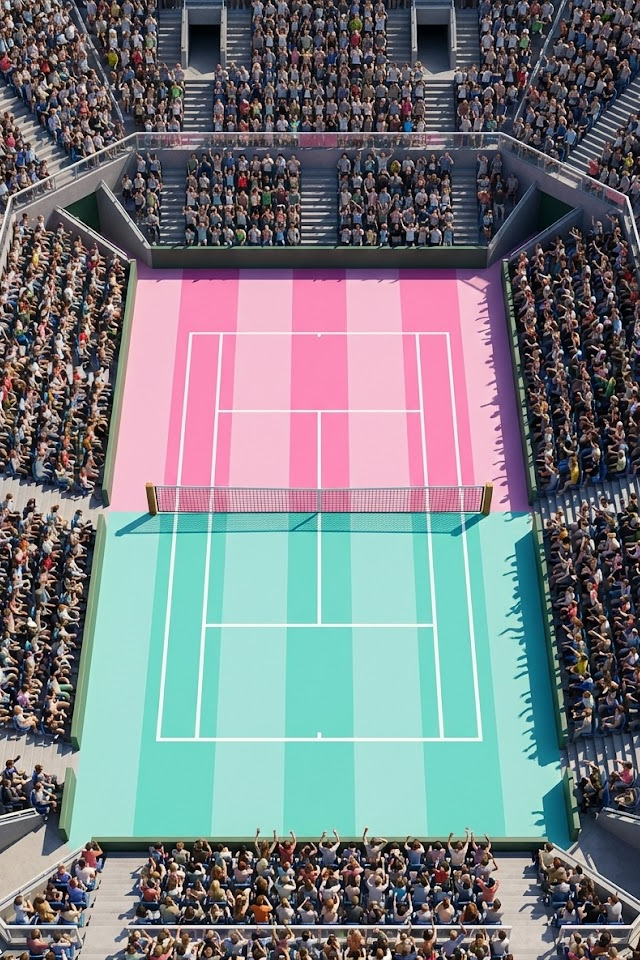
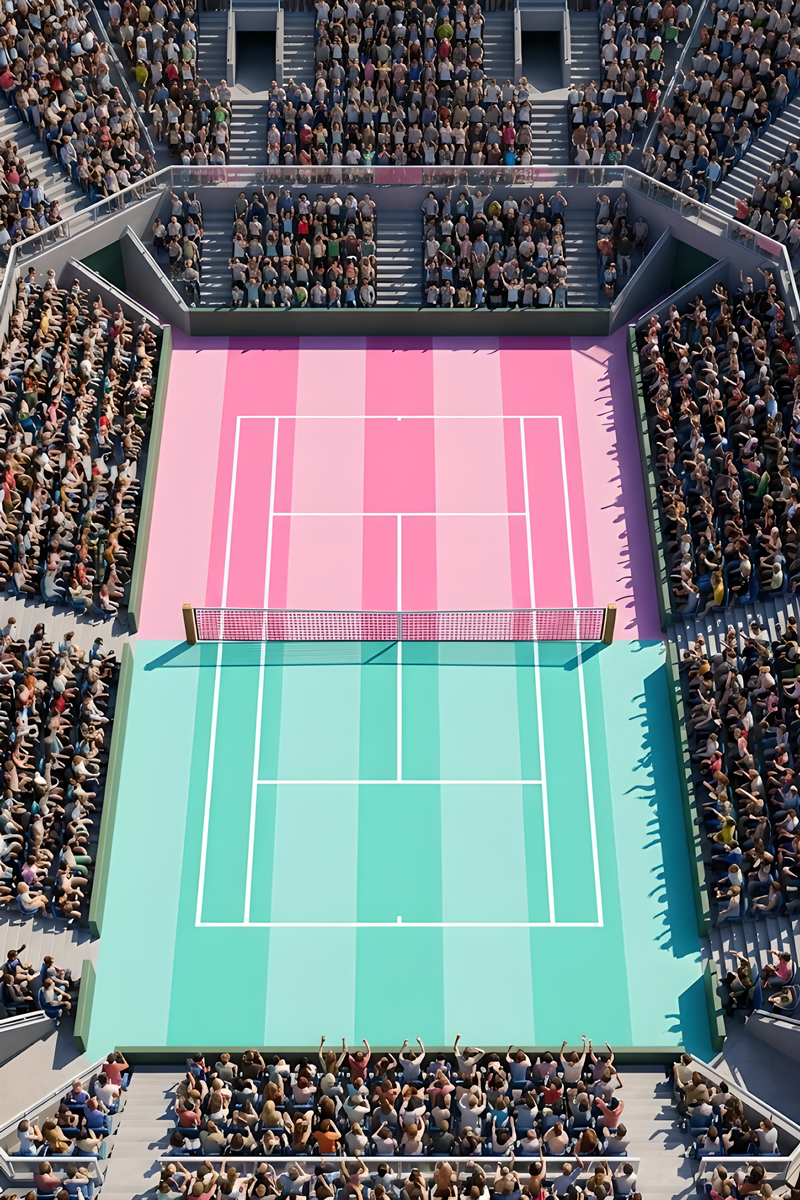
committtt

diff --git a/2026/jellyfishEssence/scripts/game.js b/2026/jellyfishEssence/scripts/game.js
@@ -139,7 +139,7 @@ class Game extends Phaser.Scene {
     let state = "wait";
     let popup = this.add.group();
     let bg = this.add.sprite(config.width / 2, config.height * .4, "background");
-    bg.setScale(1.75)
+    bg.setScale(1.25)
 
     let essencetxt = this.add.sprite(config.width * .018, config.width * .018, "essencetxt");
     essencetxt.setScale(1).setOrigin(0, 0);

diff --git a/2026/jellyfishEssence/scripts/menu.js b/2026/jellyfishEssence/scripts/menu.js
@@ -229,7 +229,7 @@ class Menu extends Phaser.Scene {
         alpha: 1,
         duration: 400,
         delay: 200,
-        scale: 1.75,
+        scale: 1.25,
         ease: "Power2.easeIn",
         onComplete: function () {
           self.scene.start("game");
